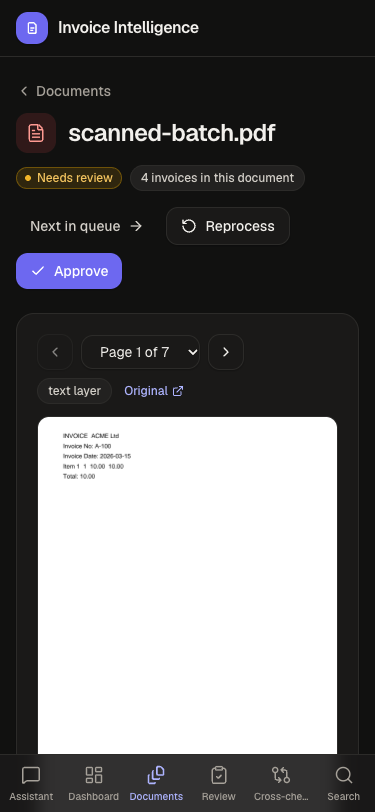
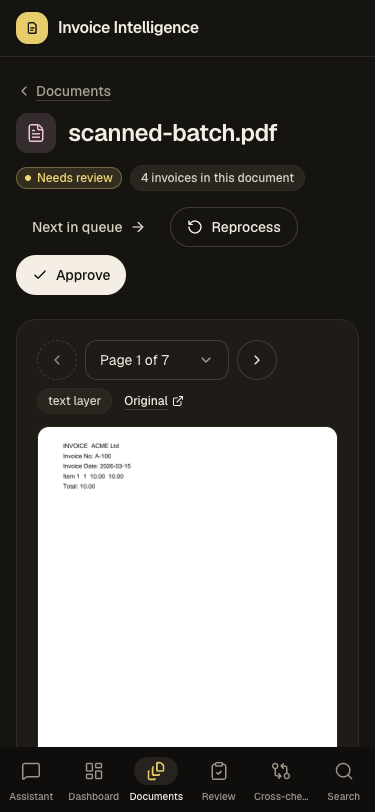
docs: before/after screenshots of the redesign and what changed

diff --git a/docs/screenshots/README.md b/docs/screenshots/README.md
@@ -1,17 +1,52 @@
 # Screenshots
 
-Captured from the running stack (`make up`) with synthetic sample documents, in light and dark
-mode (`prefers-color-scheme`), with reduced motion so nothing is caught mid-animation.
+Captured from the running stack (`make up`) with synthetic sample documents only, in light and
+dark mode (`prefers-color-scheme`), with reduced motion so nothing is caught mid-animation.
+
+- `*.png` in this folder: the current design ("after").
+- `before/`: the previous design (indigo accent, white sidebar), kept for comparison.
 
 | Page | Desktop (1440 x 900) | Phone (375 px) |
 |---|---|---|
 | Assistant | `assistant-light.png`, `assistant-dark.png` | |
 | Dashboard | `dashboard-light.png`, `dashboard-dark.png` | `dashboard-mobile-light.png`, `dashboard-mobile-dark.png` |
-| Documents | `documents-light.png`, `documents-dark.png` | |
+| Documents | `documents-light.png`, `documents-dark.png`; date filter open: `documents-date-filter-*.png` | |
 | Review (batch PDF) | `review-light.png`, `review-dark.png` | `review-mobile-light.png`, `review-mobile-dark.png` |
 | Review queue | `review-queue-light.png`, `review-queue-dark.png` | |
-| Cross-check | `cross-check-light.png`, `cross-check-dark.png` | |
+| Cross-check | `cross-check-light.png`, `cross-check-dark.png`; document picker open: `cross-check-picker-*.png` | |
 | Search | `search-light.png`, `search-dark.png` | |
 
-To retake them, open each page in a browser with device emulation, or script it with
-Playwright (`page.emulateMedia({ colorScheme, reducedMotion: "reduce" })`).
+## What changed in the redesign
+
+- **Palette.** A warm cream page, near-white cards and a solid near-black sidebar with a
+  soft highlight on the active item. The indigo accent is gone: primary actions are black
+  pills (light pills in dark mode) and secondary actions are outlined pills.
+- **Pastel summary blocks.** Butter, dusty pink, sage and periwinkle cards with dark text and
+  one faint CSS/SVG shape each. They are used only for summaries: dashboard KPIs, the
+  assistant's "right now" tiles and the cross-check summary. Tables and the review panel stay
+  calm.
+- **Status pills** use the same pastels and always carry a word: sage processed, butter needs
+  review, periwinkle processing, pink failed, peach partly failed.
+- **Greeting.** A large greeting with one live line under it ("5 invoices need your review and
+  5 failed."), built from `/stats` by a tested helper.
+- **Custom controls, no browser-default widgets:**
+  - one Select built on Radix UI (same height and radius as inputs, themed menu, keyboard
+    support);
+  - a searchable document picker showing file type, supplier, invoice count and date;
+  - one "Invoice date" range control, empty by default ("Any date"), with presets and a themed
+    calendar;
+  - a date field with a calendar in the field editor;
+  - a switch instead of a checkbox.
+- **Filters** sit in one compact toolbar, with removable chips and "Clear all".
+- **Disabled buttons** are outlined and muted (not faded black). Hovering or focusing one shows
+  a short reason, e.g. "Pick two documents to compare".
+- **Removed:** the indigo, the gradients (sparkline fill, chat fade), backdrop blur, the
+  "sparkles" icon and glyph icons, generic placeholders ("e.g. acme", "Choose a document…",
+  "e.g. Ayesha") and pre-filled date inputs.
+- **Charts.** Thin ink lines, rounded ink bars (the latest day in butter), dashed horizontal
+  gridlines only, and a pastel status donut.
+- **Accessibility.** Body and muted text meet WCAG AA in both themes, checked by script
+  (pill text 7:1 or better, muted text 5.3:1 or better). Focus rings are visible on every
+  control (a scripted Tab pass), and the sidebar has its own light ring.
+- **Checks.** Every page was checked at 375, 768 and 1440 px in both themes, with no horizontal
+  scrolling.

diff --git a/README.md b/README.md
@@ -106,15 +106,24 @@ cd frontend && API_URL=http://localhost:8000 npm run gen:api   # regenerate API 
 `NEXT_PUBLIC_API_URL` (default `http://localhost:8000`) is the API address *as the browser
 sees it*. It's baked in when the image is built.
 
-**Design.** The design system lives in `frontend/src/app/globals.css`: colour, radius and shadow
-tokens on `:root`, with a separately tuned dark palette under `prefers-color-scheme: dark`. It
-uses Geist (via `next/font`), one indigo accent, and soft status tints that always come with a
-text label. Money uses tabular figures. Motion is limited to fades, hover lift, count-up
-numbers, progress bars and the streaming caret, and is turned off under
-`prefers-reduced-motion`. Shared pieces are in `frontend/src/components/` (`ui.tsx`,
-`Badges.tsx`, `Feedback.tsx`, `charts.tsx`). The sidebar becomes an icon rail on tablets and
-a bottom tab bar on phones. Every page was checked at 375, 768 and 1440 px in both themes,
-including a keyboard pass for visible focus.
+**Design.** The design system lives in `frontend/src/app/globals.css`:
+- a warm cream page, a near-black sidebar and black pill buttons;
+- four soft pastels (butter, pink, sage, periwinkle) for summary cards and status pills, which
+  always carry a word;
+- a separately tuned warm dark mode (WCAG AA);
+- Geist, with tabular numbers for money and dates.
+
+The controls are custom and keyboard accessible (`frontend/src/components/controls/`):
+- a Radix UI Select;
+- a searchable document picker;
+- an "Invoice date" range with presets and a calendar;
+- a filter toolbar with removable chips;
+- reasons on disabled buttons.
+
+Motion is limited to fades, hover lift and count-up numbers, and is off under
+`prefers-reduced-motion`. Every page was checked at 375, 768 and 1440 px in both themes,
+including a keyboard pass for visible focus. Before/after shots and the list of changes:
+[docs/screenshots/](docs/screenshots/).
 
 | Light | Dark |
 |---|---|

diff --git a/AI_USAGE.md b/AI_USAGE.md
@@ -222,3 +222,23 @@ Why the extraction prompt looks the way it does:
   - thumbnails were empty boxes before they loaded;
   - the batch invoice switcher wrapped badly.
 
+## Visual redesign (pastel, colour-blocked)
+
+- **Inspiration, not a copy.** The brief came with a reference screenshot of another product.
+  I took the style direction only: cream background, a black sidebar, pastel summary blocks
+  and pill buttons. The name, logo, illustrations and layout were not reused, and the
+  decorative shapes are my own simple SVGs.
+- **Contrast measured, not eyeballed.** A script computed WCAG ratios for every text and
+  background pair in both themes. Two pairs failed (muted text on sage in dark mode, and the
+  "faint" grey), and both were darkened until they passed.
+- **Custom controls built on Radix where it matters.** The Select uses Radix UI for keyboard
+  and ARIA behaviour. The calendar is a small in-house component rather than a date-picker
+  library whose current major version I couldn't verify. The new controls have their own unit
+  tests (date maths, keyboard picking, chips and Clear all, presets, range ordering).
+- **A bug caught by an existing test.** The first version of the disabled-button hint swapped
+  its wrapper when the button became enabled. That remounted the button, so it lost focus and
+  identity; the approve-dialog test caught it, and the wrapper is now always rendered.
+- **Environment issue.** The Mac's disk filled up during the work and Docker's storage
+  returned I/O errors. With the user's agreement, only caches were cleared (npm cache and my
+  own scratch screenshots). Docker recovered after a restart, and no project data was lost.
+
